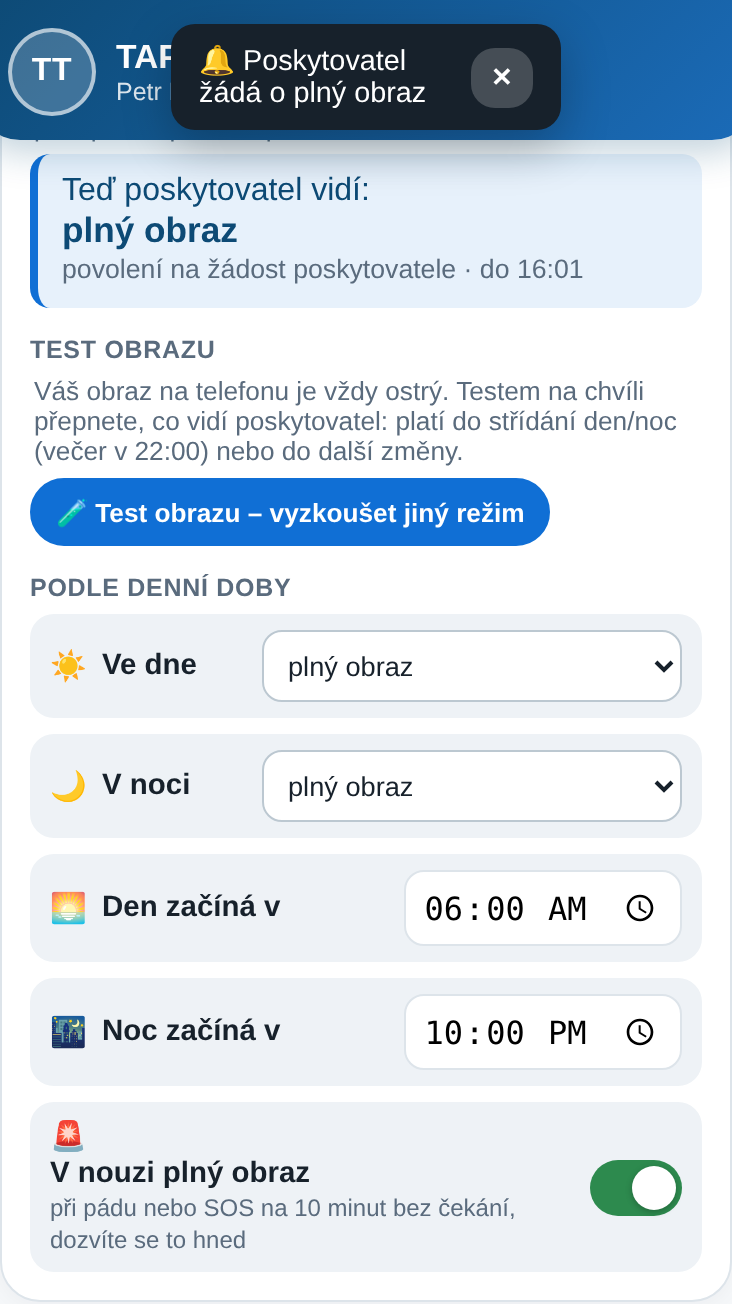
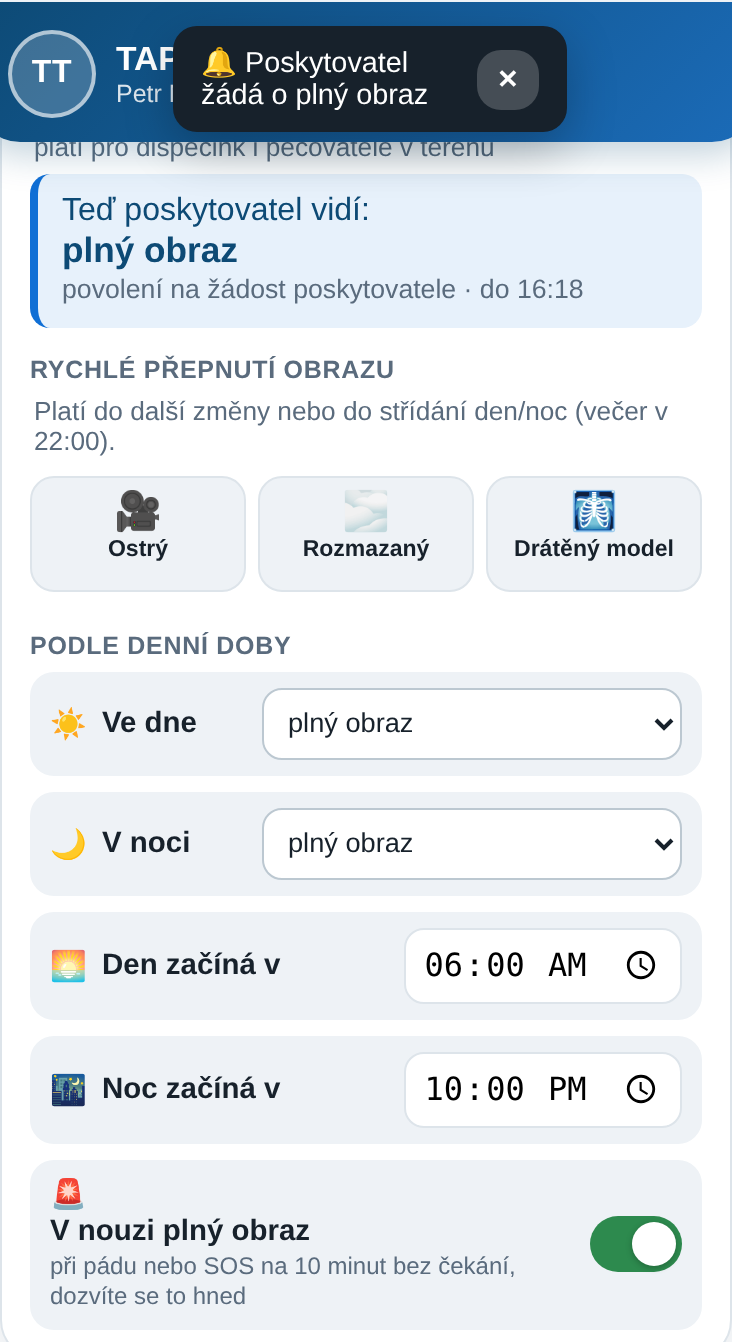
Rodina: tři tlačítka rychlého přepnutí pro poskytovatele zpět; Test obrazu je nad vlastním zobrazením rodiny (obraz vždy ostrý, volba rozostření / černé pozadí / drátěný model až po stisku, zavření vrátí ostrý obraz); nápověda, snímky, CHANGELOG, README
Claude-Session: https://claude.ai/code/session_013Q43w1EYgsA74FWdGJXT9h

diff --git a/public/proto/napoveda.js b/public/proto/napoveda.js
@@ -6,7 +6,7 @@
  */
 export const TEMATA = [
   { id: 'prehled', obrazky: [{ src: '/proto/napoveda/dlazdice.png', popis: 'Dlaždice kamer se štítkem režimu, který platí teď' }, { src: '/proto/napoveda/detail.png', popis: 'Detail kamery: co rodina povolila a proč, drátěný model přes obraz' }], nazev: 'Dlaždice a režimy obrazu', klicova: ['dlazdic', 'rezim', 'obraz', 'rozostr', 'rozmaz', 'drateny', 'kostra', 'plny obraz', 'bez obrazu', 'co vidim', 'proc nevidim', 'cerny', 'skeleton', 'blur'],
-    text: 'Každá dlaždice ukazuje kameru v režimu, který povolila rodina: plný obraz, rozostření, drátěný model (jen kostra postavy) nebo bez obrazu (jen události). Štítek na dlaždici říká, který režim platí teď; v detailu je i proč (denní nebo noční nastavení rodiny, test obrazu rodiny, povolení na vaši žádost). Rodina si nastavuje režim pro den a pro noc a čas, kdy den a noc začínají, a tlačítkem Test obrazu může na chvíli (do dalšího střídání den/noc) přepnout, co poskytovatel vidí; její vlastní obraz na telefonu je vždy ostrý. Dispečink režim sám nemění; může jen požádat o plný obraz nebo v kritické situaci použít nouzový přístup.' },
+    text: 'Každá dlaždice ukazuje kameru v režimu, který povolila rodina: plný obraz, rozostření, drátěný model (jen kostra postavy) nebo bez obrazu (jen události). Štítek na dlaždici říká, který režim platí teď; v detailu je i proč (denní nebo noční nastavení rodiny, rychlé přepnutí rodiny, povolení na vaši žádost). Rodina si nastavuje režim pro den a pro noc a čas, kdy den a noc začínají, a může obraz kdykoli rychle přepnout do dalšího střídání den/noc (tři tlačítka Ostrý / Rozmazaný / Drátěný model). Její vlastní obraz na telefonu je vždy ostrý; tlačítkem Test obrazu si jen vyzkouší, jak rozostření nebo drátěný model vypadají. Dispečink režim sám nemění; může jen požádat o plný obraz nebo v kritické situaci použít nouzový přístup.' },
   { id: 'zadost', obrazky: [{ src: '/proto/napoveda/zadost.png', popis: 'Detail kamery: Požádat rodinu o plný obraz s důvodem' }, { src: '/proto/napoveda/rodina-zadost.png', popis: 'Telefon rodiny: žádost přes celou obrazovku s tlačítky Povolit / Odmítnout' }], nazev: 'Žádost o plný obraz', klicova: ['zadost', 'pozadat', 'plny obraz', 'povolit', 'povoleni', '15 minut', 'do odvolani', 'rodina nereaguje', 'odmit'],
     text: 'Klepněte na dlaždici, v detailu na „Požádat rodinu o plný obraz“, vyberte důvod (rodina ho uvidí) a odešlete. Rodině na telefonu vyskočí žádost přes celou obrazovku, bliká a zní, dokud ji nevyřídí: Povolit na 15 minut, Povolit do odvolání, nebo Odmítnout. Zároveň každému členovi rodiny s účtem u té kamery odejde SMS, ať otevře aplikaci a žádost povolí nebo odmítne (dispečink vidí, kolika lidem SMS odešla). Žádost platí 10 minut; bez odpovědi zůstane dosavadní režim. Po povolení ukazuje dlaždice plný obraz, rodina vidí, kdo se dívá, a může přístup kdykoli ukončit. Vy ho ukončíte tlačítkem „Ukončit plný obraz“.' },
   { id: 'nouze', obrazky: [{ src: '/proto/napoveda/nouze.png', popis: 'Tlačítko Nouzový přístup 10 min v detailu kamery' }], nazev: 'Nouzový přístup', klicova: ['nouz', 'nouzovy', 'pad', 'sos', 'kriticky', 'bez souhlasu', '10 minut'],
@@ -22,7 +22,7 @@ export const TEMATA = [
   { id: 'poznamky', obrazky: [{ src: '/proto/napoveda/komunikace.png', popis: 'Sekce Komunikace v detailu kamery: poskytovatel, poznámka ke klientovi, dál uživatelé rodiny, kontakty a poznámky' }, { src: '/proto/napoveda/poznamky.png', popis: 'Poznámky dispečinku: pole, tlačítko a seznam s časem a jménem' }], nazev: 'Poznámky dispečinku ke kameře', klicova: ['poznamk', 'zapsat', 'zapis', 'zaznam', 'log', 'co jsem udelal', 'deník', 'denik'],
     text: 'V sekci Komunikace v detailu je „Poznámka ke klientovi“: trvalá informace (zdravotní stav, na co dát pozor), kterou poskytovatel upraví tlačítkem Upravit; změna se zapíše do logu. Novou poznámku píšete v sekci Monitoring pod tlačítky (pole „Přidat poznámku“, nebo Cmd+Enter), abyste při řešení alertu nemuseli přepínat sekce: datum, čas a vaše jméno (z Nastavení) se doplní samy. Poznámky se zapisují do logu kamery jako události a jsou vidět i v historii v Monitoringu a samostatně v Komunikaci → Poznámky dispečinku, nejnovější nahoře. Vidí je všichni dispečeři; rodina je v historii nevidí, jsou interní pro poskytovatele. Hodí se na hovory s rodinou, výjezdy, domluvené kontroly.' },
   { id: 'novinky', nazev: 'Co je nové', klicova: ['novink', 'co je nove', 'zmeny', 'verze', 'aktualizace'],
-    text: 'Verze 1.1 (3. 10. 2026): v aplikaci rodiny nahradilo tři tlačítka rychlého přepnutí jedno tlačítko Test obrazu; teprve po něm rodina vybere, co má poskytovatel vidět, a běžící test jde ukončit. Dál: detail kamery v dispečinku je rozdělený do sekcí Monitoring, Komunikace a Nastavení. Ke každé kameře jdou zadat až tři čísla na SMS a tři e-maily (Komunikace → Kontakty pro upozornění) a u každé události zatrhnout Nahrávat, SMS a E-mail (Nastavení); server při události upozorní, historie ukazuje, kolik zpráv odešlo. E-mail jde stejným webhookem Make jako SMS, v Nastavení (ozubené kolečko) je zkušební SMS i zkušební e-mail a varování, když je na serveru zaměněná adresa webhooku. Oprava 3. 10. 2026 odpoledne: SMS rodině (pozvánky, žádosti o plný obraz) jdou přes Twilio stejným spojením jako SMS Jarvise; dřívější cesta hlásila odesláno, ale SMS nedocházely. V Nastavení (ozubené kolečko) je sekce SMS rodině s tlačítkem Poslat zkušební SMS na vlastní číslo. Verze 1.0 (3. 10. 2026), číslo verze je v hlavičce každé aplikace. Aplikace rodiny už nemá panel Simulace; zapne se odkazem /proto/rodina.html?simulace=1 (ukázka ?ukazka=1 ho má vždy). Při žádosti o plný obraz odchází rodině SMS. Dál: trvalá poznámka ke klientovi pod obrazem jde upravit; odkaz z pozvánky má přednost před přihlášením v prohlížeči; dispečink a provoz jen po přihlášení poskytovatele; nastavení pod ozubeným kolečkem vpravo nahoře (poskytovatel, dispečink, eskalace, zobrazení); poznámky dispečinku ke kameře s časem a jménem; nápověda s obrázky obrazovek a asistent v grafice Case manageru; údaje poskytovatele na jednom místě pro dispečink i rodinu; karta Směna počítá z dnešních alertů. 2. 10. 2026: stav sdílený přes server (rodina na telefonu, dispečink na počítači); přepínač Jen skutečné kamery / Demo; přihlášení přímo v dispečinku; v aplikaci rodiny karta Přístup poskytovatele s rychlým přepnutím Ostrý / Rozmazaný / Drátěný model, časy dne a noci, Klid na 2 hodiny / do rána / do večera / do vypnutí, žádost o plný obraz přes celou obrazovku se zvukem.' },
+    text: 'Verze 1.1 (3. 10. 2026): v aplikaci rodiny je vlastní obraz vždy ostrý a volba zobrazení (rozostření, černé pozadí, drátěný model) je schovaná za tlačítkem Test obrazu; zavřením testu se vrátí ostrý obraz. Tři tlačítka Ostrý / Rozmazaný / Drátěný model pro poskytovatele zůstávají v kartě Přístup poskytovatele. Dál: detail kamery v dispečinku je rozdělený do sekcí Monitoring, Komunikace a Nastavení. Ke každé kameře jdou zadat až tři čísla na SMS a tři e-maily (Komunikace → Kontakty pro upozornění) a u každé události zatrhnout Nahrávat, SMS a E-mail (Nastavení); server při události upozorní, historie ukazuje, kolik zpráv odešlo. E-mail jde stejným webhookem Make jako SMS, v Nastavení (ozubené kolečko) je zkušební SMS i zkušební e-mail a varování, když je na serveru zaměněná adresa webhooku. Oprava 3. 10. 2026 odpoledne: SMS rodině (pozvánky, žádosti o plný obraz) jdou přes Twilio stejným spojením jako SMS Jarvise; dřívější cesta hlásila odesláno, ale SMS nedocházely. V Nastavení (ozubené kolečko) je sekce SMS rodině s tlačítkem Poslat zkušební SMS na vlastní číslo. Verze 1.0 (3. 10. 2026), číslo verze je v hlavičce každé aplikace. Aplikace rodiny už nemá panel Simulace; zapne se odkazem /proto/rodina.html?simulace=1 (ukázka ?ukazka=1 ho má vždy). Při žádosti o plný obraz odchází rodině SMS. Dál: trvalá poznámka ke klientovi pod obrazem jde upravit; odkaz z pozvánky má přednost před přihlášením v prohlížeči; dispečink a provoz jen po přihlášení poskytovatele; nastavení pod ozubeným kolečkem vpravo nahoře (poskytovatel, dispečink, eskalace, zobrazení); poznámky dispečinku ke kameře s časem a jménem; nápověda s obrázky obrazovek a asistent v grafice Case manageru; údaje poskytovatele na jednom místě pro dispečink i rodinu; karta Směna počítá z dnešních alertů. 2. 10. 2026: stav sdílený přes server (rodina na telefonu, dispečink na počítači); přepínač Jen skutečné kamery / Demo; přihlášení přímo v dispečinku; v aplikaci rodiny karta Přístup poskytovatele s rychlým přepnutím Ostrý / Rozmazaný / Drátěný model, časy dne a noci, Klid na 2 hodiny / do rána / do večera / do vypnutí, žádost o plný obraz přes celou obrazovku se zvukem.' },
   { id: 'zdroj', obrazky: [{ src: '/proto/napoveda/zdroj.png', popis: 'Přepínač Jen skutečné kamery / Demo nad dlaždicemi' }], nazev: 'Jen skutečné kamery / Demo', klicova: ['demo', 'skutecn', 'fiktiv', 'ukazk', 'prepinac', 'kolik kamer', 'jedna dlazdice', 'chybi pacient'],
     text: 'Přepínač nad dlaždicemi: „Jen skutečné kamery“ ukáže pouze kamery připojené k serveru, „Demo (i fiktivní)“ přidá ukázkové pacienty pro předvádění. Volba platí pro tento prohlížeč; v adrese jde vynutit ?zdroj=demo nebo ?zdroj=real. Fronta alertů, počty i panel Simulace se řídí stejnou volbou.' },
   { id: 'poskytovatel', obrazky: [{ src: '/proto/napoveda/zahlavi.png', popis: 'Záhlaví: údaje poskytovatele vlevo, vpravo nahoře Nápověda a ozubené kolečko' }, { src: '/proto/napoveda/nastaveni.png', popis: 'Nastavení pod ozubeným kolečkem: poskytovatel, dispečink, zobrazení' }], nazev: 'Nastavení (ozubené kolečko)', klicova: ['nastaven', 'poskytovatel', 'zahlavi', 'dispecer', 'smena', 'zaloha', 'vedouci', 'eskalac', 'jmeno', 'upravit', 'nazev sluzby', 'kolecko'],

diff --git a/public/proto/rodina.js b/public/proto/rodina.js
@@ -171,6 +171,13 @@ function renderModes() {
   sw.checked = baseMode === 'skeleton' || skel;
   $('skelHint').textContent = baseMode === 'skeleton' ? 'na černém pozadí je drátěný model vždy' : 'kostra postavy přes normální i rozostřený obraz';
 }
+/* Test obrazu: rodina vidí vždy ostrý obraz; velkým tlačítkem si může vyzkoušet,
+ * jak vypadá rozostření, černé pozadí a drátěný model. Jen na tomhle telefonu,
+ * poskytovateli se nic nemění (to je karta Přístup poskytovatele). */
+const testObrazu = (on) => { $('testObrazu').classList.toggle('hide', !on); $('testStart').classList.toggle('hide', on); };
+$('testBtn').onclick = () => { testObrazu(true); $('testObrazu').scrollIntoView({ behavior: 'smooth', block: 'nearest' }); };
+$('testZavrit').onclick = () => { baseMode = 'full'; skel = false; localStorage.setItem(SKEL_KEY, '0'); renderModes(); render(); testObrazu(false); };
+if (zRezimu && (zRezimu[0] !== 'full' || zRezimu[1])) testObrazu(true);   // ?rezim= otevře test rovnou v tom zobrazení
 $('modes').querySelectorAll('button').forEach((b) => { b.onclick = () => { baseMode = b.dataset.mode; renderModes(); render(); }; });
 $('skelSw').onchange = () => { skel = $('skelSw').checked; localStorage.setItem(SKEL_KEY, skel ? '1' : '0'); renderModes(); render(); };
 renderModes();
@@ -182,15 +189,8 @@ const ulozCas = (k, el) => async () => { if (!el.value) { render(); return; } tr
 $('cDenOd').onchange = ulozCas('denOd', $('cDenOd'));
 $('cNocOd').onchange = ulozCas('nocOd', $('cNocOd'));
 // rychlé přepnutí: platí do další změny nebo do střídání den/noc
-/* Test obrazu: jedno tlačítko, teprve po něm výběr, co má poskytovatel vidět.
- * Vlastní obraz rodiny na telefonu se tím nemění (ten je vždy ostrý). */
-let rychleOtevreno = false;
-const rychleVolbu = (on) => { rychleOtevreno = on; $('rychleVolba').classList.toggle('hide', !on); $('rychleStart').classList.toggle('hide', on); if (on) $('rychleVolba').scrollIntoView({ behavior: 'smooth', block: 'nearest' }); };
-$('rychleBtn').onclick = () => rychleVolbu(true);
-$('rychleJiny').onclick = () => rychleVolbu(true);
-$('rychleZavrit').onclick = () => rychleVolbu(false);
-$('rychle').querySelectorAll('button').forEach((b) => { b.onclick = async () => { const p = sim.patient(patientId); const aktivni = p?.docasne && p.docasne.until > Date.now() && p.docasne.mode === b.dataset.r; await sim.rychle(patientId, aktivni ? null : b.dataset.r); rychleVolbu(false); }; });
-$('rychleZrusit').onclick = () => { sim.rychle(patientId, null); rychleVolbu(false); };
+$('rychle').querySelectorAll('button').forEach((b) => { b.onclick = () => { const p = sim.patient(patientId); const aktivni = p?.docasne && p.docasne.until > Date.now() && p.docasne.mode === b.dataset.r; sim.rychle(patientId, aktivni ? null : b.dataset.r); }; });
+$('rychleZrusit').onclick = () => sim.rychle(patientId, null);
 document.querySelectorAll('[data-klid]').forEach((b) => { b.onclick = () => sim.klidDo(patientId, b.dataset.klid); });
 $('filters').querySelectorAll('button').forEach((b) => { b.onclick = () => { filter = b.dataset.f; $('filters').querySelectorAll('button').forEach((o) => { o.setAttribute('aria-pressed', String(o === b)); o.classList.toggle('on', o === b); }); render(); }; });
 $('ackAll').onclick = () => sim.ackAll(patientId);
@@ -249,10 +249,8 @@ function render() {
   const ef = sim.efektivni(patientId);
   const docasne = p.docasne && p.docasne.until > Date.now() ? p.docasne : null;
   $('rychle').querySelectorAll('button').forEach((b) => b.setAttribute('aria-pressed', String(!!docasne && docasne.mode === b.dataset.r)));
-  $('rychleAktivni').classList.toggle('hide', !docasne);
-  $('rychleStart').classList.toggle('hide', !!docasne || rychleOtevreno);
-  if (docasne) $('rychleStav').textContent = `Test běží: poskytovatel vidí ${CONSENT[docasne.mode] || docasne.mode} do ${fmtT(docasne.until)}.`;
-  $('rychleHint').textContent = docasne ? 'Po skončení testu se vrátí nastavení podle denní doby.' : `Váš obraz na telefonu je vždy ostrý. Testem na chvíli přepnete, co vidí poskytovatel: platí do střídání den/noc (${sim.isNight(patientId) ? 'ráno v ' + denOd : 'večer v ' + nocOd}) nebo do další změny.`;
+  $('rychleZrusit').classList.toggle('hide', !docasne);
+  $('rychleHint').textContent = docasne ? `Platí do ${fmtT(docasne.until)} (střídání den/noc), nebo do další změny.` : `Platí do další změny nebo do střídání den/noc (${sim.isNight(patientId) ? 'ráno v ' + denOd : 'večer v ' + nocOd}).`;
   const open = s.events.filter((e) => e.patientId === patientId && e.state !== 'uzavřen' && KINDS[e.kind]);
   const worst = open.some((e) => KINDS[e.kind].level === 'crit') ? 'crit' : open.some((e) => KINDS[e.kind].level === 'warn') ? 'warn' : null;
   $('pstatus').textContent = p.offline ? 'kamera nedostupná' : worst === 'crit' ? 'kritická událost' : worst === 'warn' ? 'varování' : 'klid';
@@ -266,7 +264,7 @@ function render() {
   $('heroT').textContent = { ok: 'Vše v pořádku', warn: 'Varování, podívejte se', crit: 'Kritická událost', off: 'Kamera je nedostupná' }[heroKind];
   $('heroS').textContent = lastEv ? `Poslední událost: ${eventText(lastEv)} · ${fmtT(lastEv.at)}` : 'Zatím žádná událost';
   $('modeTag').textContent = { full: 'normální obraz', blur: 'rozostření', fullskel: 'drátěný model přes obraz', blurskel: 'rozostření s drátěným modelem', skeleton: 'jen drátěný model' }[viewMode()];
-  const efZdroj = { povoleni: 'povolení na žádost poskytovatele', rychle: 'váš test obrazu', offline: 'kamera je nedostupná', den: `denní nastavení (den ${denOd}–${nocOd})`, noc: `noční nastavení (noc ${nocOd}–${denOd})` }[ef.zdroj] || '';
+  const efZdroj = { povoleni: 'povolení na žádost poskytovatele', rychle: 'vaše rychlé přepnutí', offline: 'kamera je nedostupná', den: `denní nastavení (den ${denOd}–${nocOd})`, noc: `noční nastavení (noc ${nocOd}–${denOd})` }[ef.zdroj] || '';
   setHtml($('effective'), `Teď poskytovatel vidí: <strong>${esc(ef.mode === 'offline' ? 'nic, kamera nedostupná' : CONSENT[ef.mode] || ef.mode)}</strong><small>${esc(efZdroj)}${ef.do ? ` · do ${fmtT(ef.do)}` : ''}</small>`);
   const kontakty = describeKontakty(p);
   $('watchInfo').textContent = describeWatch(p.watch || {}) + (kontakty ? ` · upozornění poskytovatele jdou na ${kontakty}` : '');

diff --git a/public/proto/rodina.html b/public/proto/rodina.html
@@ -92,14 +92,18 @@
       <span class="live hide" id="liveTag">● ŽIVĚ</span>
     </div>
     <div id="watching"></div>
-    <p class="hint" style="margin-top:8px">Zobrazení jen na tomhle telefonu; co vidí poskytovatel, je v kartě Přístup poskytovatele níže.</p>
-    <div class="modesel three" id="modes">
-      <button data-mode="full" aria-pressed="true"><span class="ic">🎥</span>Normální</button>
-      <button data-mode="blur" aria-pressed="false"><span class="ic">🌫</span>Rozostření</button>
-      <button data-mode="skeleton" aria-pressed="false"><span class="ic">⬛</span>Černé pozadí</button>
+    <div class="chips" style="margin-top:8px" id="testStart"><button class="chip pri" id="testBtn">🧪 Test obrazu – jak vypadá rozostření a drátěný model</button></div>
+    <div class="hide" id="testObrazu">
+      <p class="hint">Jen na tomhle telefonu, poskytovateli se tím nic nemění. Vyzkoušejte, jak které zobrazení vypadá; zavřením se vrátí ostrý obraz.</p>
+      <div class="modesel three" id="modes">
+        <button data-mode="full" aria-pressed="true"><span class="ic">🎥</span>Normální</button>
+        <button data-mode="blur" aria-pressed="false"><span class="ic">🌫</span>Rozostření</button>
+        <button data-mode="skeleton" aria-pressed="false"><span class="ic">⬛</span>Černé pozadí</button>
+      </div>
+      <label class="crow sw skelrow" id="skelRow"><span class="cl"><span class="ic">🩻</span>Drátěný model<small id="skelHint">kostra postavy přes normální i rozostřený obraz</small></span>
+        <span class="switch"><input type="checkbox" id="skelSw"><i></i></span></label>
+      <div class="chips" style="margin-top:6px"><button class="chip" id="testZavrit">Zavřít test, zpět na ostrý obraz</button></div>
     </div>
-    <label class="crow sw skelrow" id="skelRow"><span class="cl"><span class="ic">🩻</span>Drátěný model<small id="skelHint">kostra postavy přes normální i rozostřený obraz</small></span>
-      <span class="switch"><input type="checkbox" id="skelSw"><i></i></span></label>
     <p class="hint" id="srcNote"></p>
     <div class="actions">
       <button class="act" id="rec"><span class="ic">⏺</span>Nahrát 15 s</button>
@@ -113,19 +117,14 @@
     <p class="hint" id="provider"></p>
     <div class="now big" id="effective"></div>
 
-    <h3 class="sub">Test obrazu</h3>
-    <p class="hint" id="rychleHint">Váš obraz na telefonu je vždy ostrý. Testem na chvíli přepnete, co vidí poskytovatel: platí do střídání den/noc nebo do další změny.</p>
-    <div class="chips" id="rychleStart"><button class="chip pri" id="rychleBtn">🧪 Test obrazu – vyzkoušet jiný režim</button></div>
-    <div class="hide" id="rychleVolba">
-      <p class="hint">Co má poskytovatel vidět teď:</p>
-      <div class="modesel three" id="rychle">
-        <button data-r="full" aria-pressed="false"><span class="ic">🎥</span>Ostrý</button>
-        <button data-r="blur" aria-pressed="false"><span class="ic">🌫</span>Rozmazaný</button>
-        <button data-r="skeleton" aria-pressed="false"><span class="ic">🩻</span>Drátěný model</button>
-      </div>
-      <div class="chips" style="margin-top:6px"><button class="chip" id="rychleZavrit">Zavřít bez změny</button></div>
+    <h3 class="sub">Rychlé přepnutí obrazu</h3>
+    <p class="hint" id="rychleHint">Platí do další změny nebo do střídání den/noc.</p>
+    <div class="modesel three" id="rychle">
+      <button data-r="full" aria-pressed="false"><span class="ic">🎥</span>Ostrý</button>
+      <button data-r="blur" aria-pressed="false"><span class="ic">🌫</span>Rozmazaný</button>
+      <button data-r="skeleton" aria-pressed="false"><span class="ic">🩻</span>Drátěný model</button>
     </div>
-    <div class="chips hide" id="rychleAktivni"><span class="now" id="rychleStav"></span><button class="chip" id="rychleZrusit">Ukončit test</button><button class="chip" id="rychleJiny">Jiný režim</button></div>
+    <div class="chips" style="margin-top:6px"><button class="chip hide" id="rychleZrusit">Zrušit rychlé přepnutí</button></div>
 
     <h3 class="sub">Podle denní doby</h3>
     <div class="consent">

diff --git a/public/proto/sim-core.js b/public/proto/sim-core.js
@@ -293,7 +293,7 @@ const akce = {
     if (!RYCHLE.includes(mode)) throw chyba('Neznámý režim obrazu.');
     const until = dalsiHranice(p, now);
     p.docasne = { mode, until };
-    s.events.unshift({ id: nid(s), at: now, patientId: p.id, kind: 'consent', state: 'uzavřen', by: 'rodina', text: `Test obrazu: rodina přepnula obraz na ${CONSENT[mode]} do ${casText(until)} (střídání den/noc).` });
+    s.events.unshift({ id: nid(s), at: now, patientId: p.id, kind: 'consent', state: 'uzavřen', by: 'rodina', text: `Rodina přepnula obraz na ${CONSENT[mode]} do ${casText(until)} (střídání den/noc).` });
     return { vysledek: p.docasne };
   },
   /** Klid: '120' = na 2 hodiny, 'rano' = do začátku dne, 'vecer' = do začátku noci, 'vypnuti' = do vypnutí, null = vypnout. */

diff --git a/README.md b/README.md
@@ -205,11 +205,11 @@ ukazuje se v hlavičce hlavní aplikace, rodiny, dispečinku i provozu.
 Na `/proto/` jsou tři
 simulovaná prostředí podle zadání pro vývojáře: **rodina** (telefon:
 obraz normální, rozostřený nebo na černém pozadí, drátěný model jde
-zapnout k normálnímu i rozostřenému obrazu a na černém pozadí je vždy;
+zapnout k normálnímu i rozostřenému obrazu a na černém pozadí je vždy; tahle volba vlastního zobrazení je schovaná za
+tlačítkem Test obrazu a zavřením testu se vrátí ostrý obraz;
 notifikace, historie; karta **Přístup poskytovatele** říká, co
-poskytovatel vidí teď a proč, má tlačítko Test obrazu (teprve po něm
-výběr Ostrý / Rozmazaný / Drátěný model; vlastní obraz rodiny na telefonu
-je vždy ostrý) platné do další změny nebo do střídání den/noc, nastavení
+poskytovatel vidí teď a proč, má rychlé přepnutí Ostrý / Rozmazaný /
+Drátěný model platné do další změny nebo do střídání den/noc, nastavení
 podle denní doby včetně časů, kdy den a noc začínají, a nouzový přístup;
 **Klid** na 2 hodiny, do rána, do večera, do vypnutí; žádost poskytovatele
 o plný obraz přijde přes celou obrazovku, bliká a zní, dokud ji rodina

diff --git a/CHANGELOG.md b/CHANGELOG.md
@@ -7,10 +7,11 @@ dispečinku. Postup nové verze je v README, část „Verze“.
 
 ## 1.1 · 3. 10. 2026
 
-- Aplikace rodiny: místo tří tlačítek rychlého přepnutí jedno tlačítko
-  **Test obrazu**; teprve po něm výběr Ostrý / Rozmazaný / Drátěný model,
-  běžící test jde ukončit nebo změnit. Nad vlastním přepínačem obrazu je
-  jasně napsané, že platí jen pro telefon rodiny (ten je vždy ostrý).
+- Aplikace rodiny: vlastní obraz na telefonu je vždy ostrý; volba zobrazení
+  (normální, rozostření, černé pozadí, drátěný model) je schovaná za jedním
+  tlačítkem **Test obrazu** a zavřením testu se vrátí ostrý obraz. Tři
+  tlačítka Ostrý / Rozmazaný / Drátěný model, kterými rodina přepíná, co vidí
+  poskytovatel, zůstávají v kartě Přístup poskytovatele.
 - Dispečink: detail kamery ve třech sekcích. **Monitoring** (obraz, režim,
   žádost o plný obraz, nouzový přístup, přidání poznámky, historie), **Komunikace** (poskytovatel,
   poznámka ke klientovi, uživatelé rodiny, kontakty pro upozornění, poznámky
